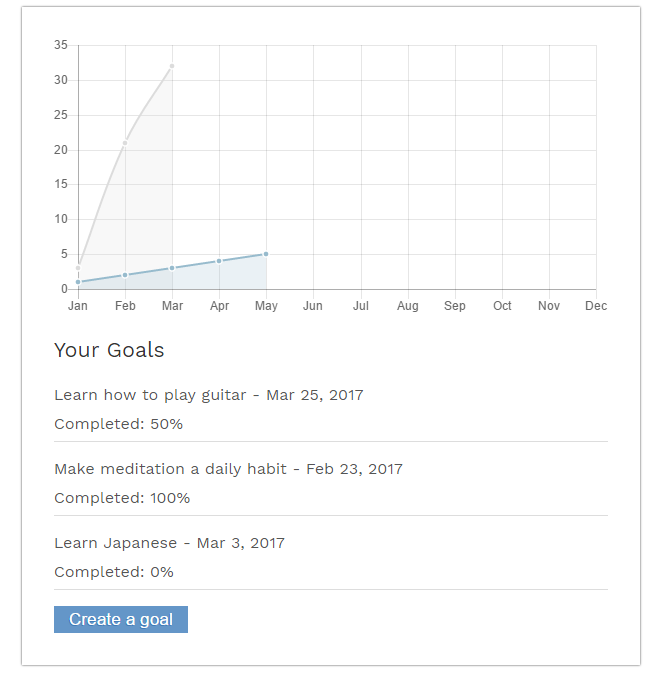
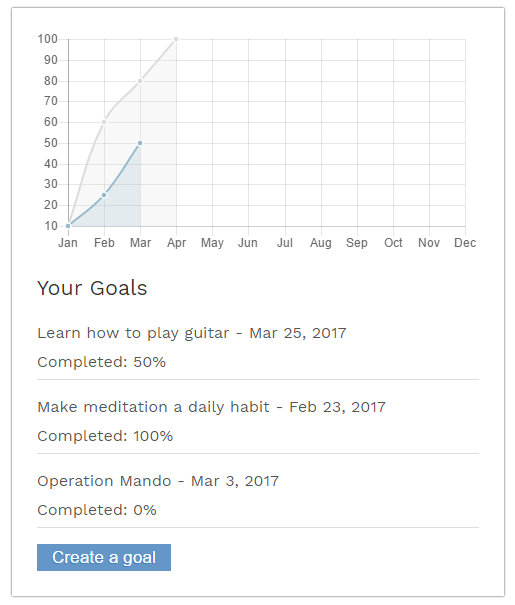
Update readme and added new image

diff --git a/app/components/home/homeCtrl.js b/app/components/home/homeCtrl.js
@@ -24,8 +24,9 @@ app.controller('homeCtrl', ['$scope', 'goalService', function($scope, goalServic
 
 	var data = [];
 
-	data.push([1,2,3,4,5]);
-	data.push([3,21,32]);
+	//dummy data for now
+	data.push([10,25,50]);
+	data.push([10,60,80,100]);
 
 	$scope.data = data;
 

diff --git a/README.md b/README.md
@@ -2,6 +2,8 @@
 
 This is a MEAN (Mongo, Express, Angular, Node) based website that allows users to set goals and track them as well as their associated milestones.
 
+*Created this site to get some experience with the MEAN Stack (still in progress)*
+
 ## Features
 - Set and track high level goals
 - Breakdown goals into manageable milestones
